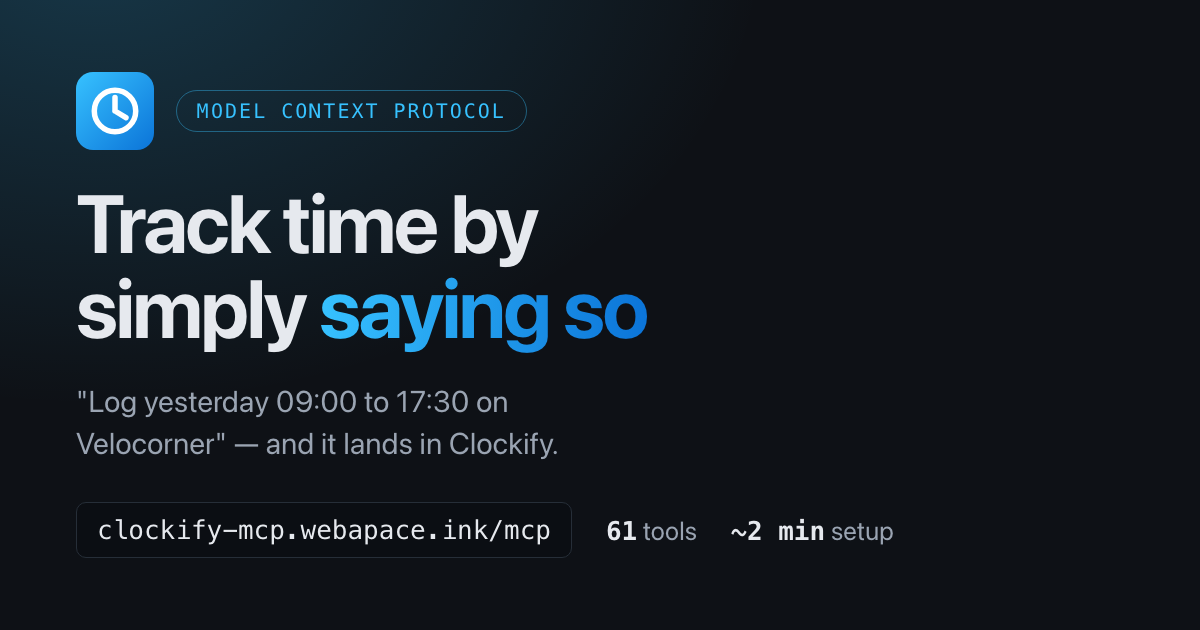
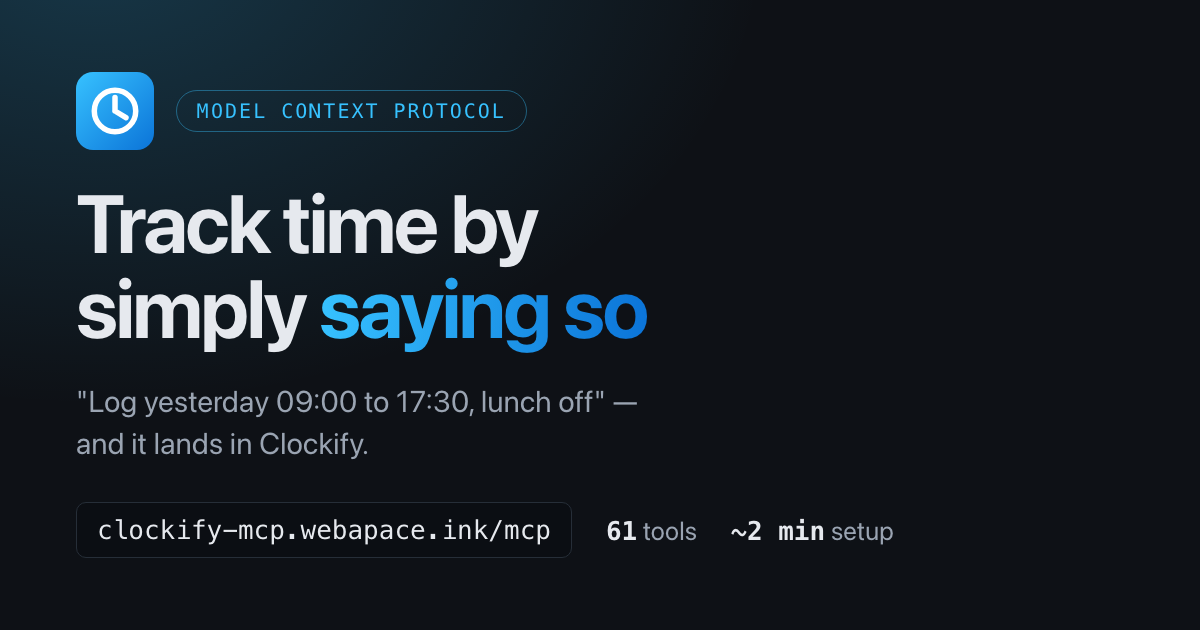
Replace real project names in the docs with a neutral example
The landing page, the README and the social card all used a live client
project by name. Swap it for "Website redesign" where an example needs a
project at all, drop the mention where it added nothing, and re-render
og-image.png from the edited card.

Changed region(s): [[0.0617, 0.6937, 0.4625, 0.7238], [0.4008, 0.6032, 0.4933, 0.6635]]

diff --git a/landing.html b/landing.html
@@ -387,7 +387,7 @@
     </div>
     <h1>Fill in your timesheet<br>by <span class="grad">just saying so</span></h1>
     <p class="lede">
-      "Start a timer on Velocorner." "Log yesterday 09:00 to 17:30, lunch off." "How much did I work
+      "Log yesterday 09:00 to 17:30, lunch off." "How much did I work
       this week?" Your assistant does it in Clockify — <b>in your own words and your own time
       zone</b>, without you opening the app.
     </p>
@@ -635,7 +635,7 @@
           client — MCP configuration is read at startup, so an edited file changes nothing until you do.
         </p>
         <div class="note calm">
-          <b>A name works instead of an id.</b> <code>"X-Clockify-Project-Id": "Velocorner Frontend"</code>
+          <b>A name works instead of an id.</b> <code>"X-Clockify-Project-Id": "Website redesign"</code>
           is resolved against your workspace on first use. It is easier to read, but a rename in
           Clockify breaks it, and a name matching several projects is refused rather than guessed —
           so for a configuration that should keep working, paste the id.
@@ -674,7 +674,7 @@
 
     <h3>While you work</h3>
     <div class="prompts">
-      <div class="prompt"><q>Start a timer on Velocorner, "refactoring the checkout"</q><span class="uses">clockify_start_timer</span></div>
+      <div class="prompt"><q>Start a timer for "refactoring the checkout"</q><span class="uses">clockify_start_timer</span></div>
       <div class="prompt"><q>What am I tracking right now, and for how long?</q><span class="uses">clockify_current_timer</span></div>
       <div class="prompt"><q>Stop the timer</q><span class="uses">clockify_stop_timer</span></div>
     </div>
@@ -682,7 +682,7 @@
     <h3>Filling in what you forgot</h3>
     <div class="prompts">
       <div class="prompt"><q>Log two and a half hours on the API migration from 14:00 today</q><span class="uses">clockify_log_time</span></div>
-      <div class="prompt"><q>Yesterday I worked 09:00–12:30 and 13:30–17:30 on Velocorner, split it into sensible tasks</q><span class="uses">clockify_log_many</span></div>
+      <div class="prompt"><q>Yesterday I worked 09:00–12:30 and 13:30–17:30, split it into sensible tasks</q><span class="uses">clockify_log_many</span></div>
       <div class="prompt"><q>Take my git commits from Monday and write them up as a workday</q><span class="uses">clockify_log_many</span></div>
       <div class="prompt"><q>That last entry should have been 45 minutes, not an hour and a half</q><span class="uses">clockify_update_time_entry</span></div>
     </div>
@@ -746,8 +746,8 @@
 
     <h3>Names instead of ids</h3>
     <p class="muted">
-      Every tool that takes a project, a task or a tag also takes its name. "Log an hour on Velocorner"
-      resolves <i>Velocorner</i> to its id for you. If the name matches more than one thing, you get
+      Every tool that takes a project, a task or a tag also takes its name. "Log an hour on the
+      website redesign" resolves <i>Website redesign</i> to its id for you. If the name matches more than one thing, you get
       the candidates back rather than a silent guess at the wrong project.
     </p>
 

diff --git a/src/tools/resolve.ts b/src/tools/resolve.ts
@@ -1,7 +1,7 @@
 import type { ClockifyClient } from "../clockify-client.js";
 
 /**
- * Name-to-id lookups. People say "log two hours to Velocorner Frontend", not
+ * Name-to-id lookups. People say "log two hours to the website redesign", not
  * "log two hours to 5f2a…", so every tool that takes an id also takes a name and
  * resolves it here. An ambiguous name is an error listing the candidates rather
  * than a silent guess at the wrong project.

diff --git a/assets/og-card.html b/assets/og-card.html
@@ -47,7 +47,7 @@
     <span class="badge">Model Context Protocol</span>
   </div>
   <h1>Track time by<br>simply <span class="grad">saying so</span></h1>
-  <p>"Log yesterday 09:00 to 17:30 on Velocorner" — and it lands in Clockify.</p>
+  <p>"Log yesterday 09:00 to 17:30, lunch off" — and it lands in Clockify.</p>
   <div class="foot">
     <code>clockify-mcp.webapace.ink/mcp</code>
     <span class="stat"><b>61</b> tools</span>

diff --git a/README.md b/README.md
@@ -127,8 +127,8 @@ reports the account, the active workspace and how the server is configured, `clo
 returns every workspace with its id, and `clockify_find_project` searches projects by part of a name.
 Put the values into the configuration and restart the client, which reads it only at startup.
 
-`CLOCKIFY_PROJECT_ID` and `X-Clockify-Project-Id` accept a project **name** as well — `Velocorner
-Frontend` rather than `60f9c8…` — resolved once against the workspace, and refused if it matches
+`CLOCKIFY_PROJECT_ID` and `X-Clockify-Project-Id` accept a project **name** as well — `Website
+redesign` rather than `60f9c8…` — resolved once against the workspace, and refused if it matches
 several projects. A name does not survive a rename, so prefer the id for anything long-lived.
 
 ---
